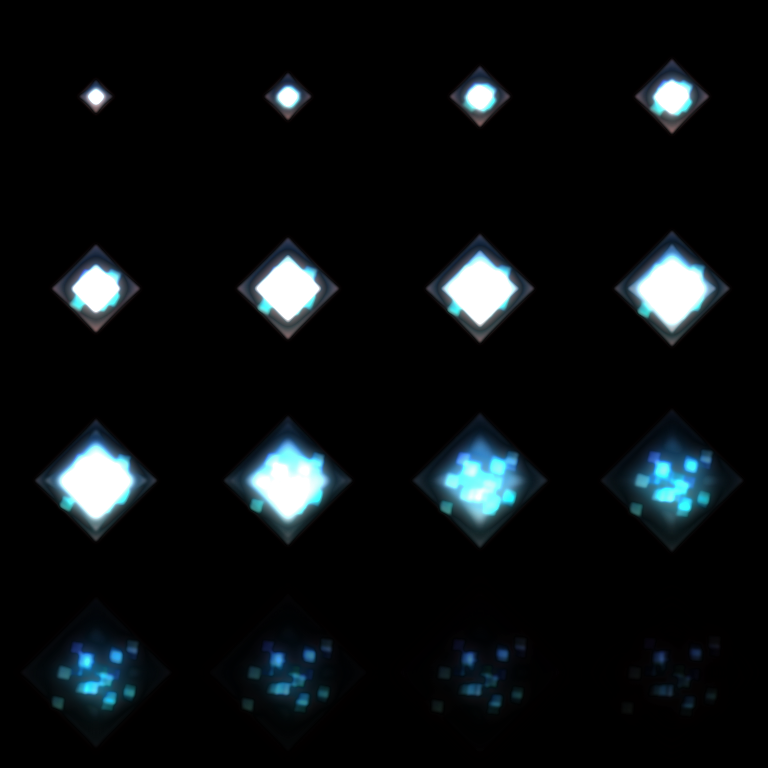
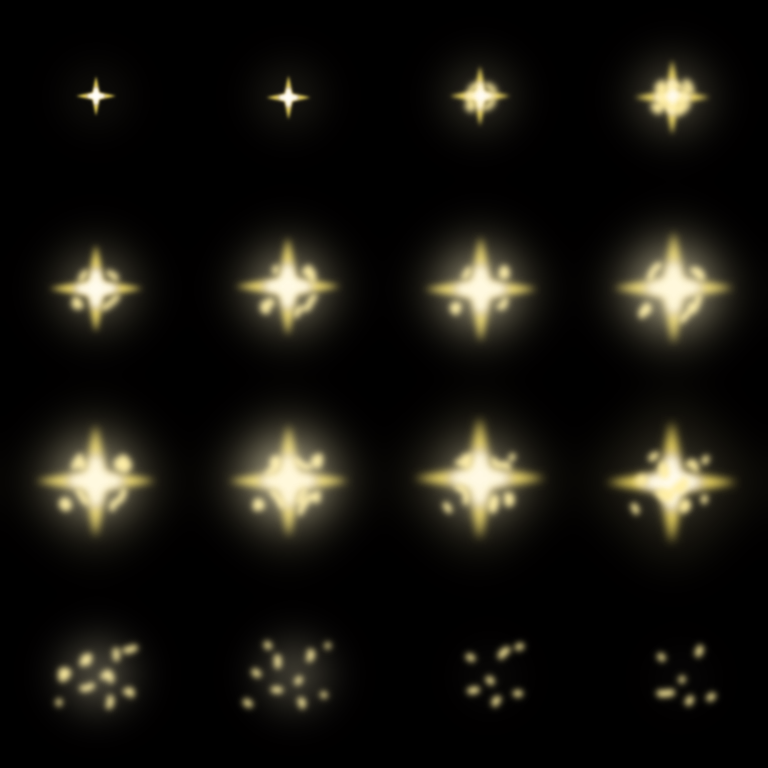
better hiteffect + artist text in song select

diff --git a/TempoTabbies/Assets/Scripts/Score/ScorePopupManager.cs b/TempoTabbies/Assets/Scripts/Score/ScorePopupManager.cs
@@ -10,6 +10,7 @@ public class ScorePopupManager : MonoBehaviour
     [Header("UI References")]
     public GameObject panelRoot;
     public TMP_Text headerText;
+    public TMP_Text artistText;
     public TMP_Text contentText;
     public TMP_Text gradetext;
     public TMP_Text cleartypetext;
@@ -42,7 +43,8 @@ public class ScorePopupManager : MonoBehaviour
         if (chartManager == null) chartManager = FindFirstObjectByType<ChartSelectManager>();
     }
 
-    public void ShowScores(string mapName, string difficulty)
+    // Accept artist as an optional parameter so callers that have the SMFile can pass Artist directly.
+    public void ShowScores(string mapName, string difficulty, string artist = null)
     {
         Debug.Log($"[ScorePopupManager] ShowScores called for {mapName} / {difficulty}");
         if (panelRoot == null)
@@ -69,7 +71,10 @@ public class ScorePopupManager : MonoBehaviour
         }
 
         if (headerText != null)
-            headerText.text = $"{mapName} - {difficulty}";
+            headerText.text = $"{mapName}";
+
+        if (artistText != null)
+            artistText.text = artist ?? string.Empty;
 
         if (entries == null || entries.Count == 0)
         {
@@ -231,7 +236,8 @@ public class ScorePopupManager : MonoBehaviour
 
     private void Update()
     {
-        if (chartManager.state == ChartSelectManager.State.bigButton)
+        if (chartManager == null) chartManager = FindFirstObjectByType<ChartSelectManager>();
+        if (chartManager != null && chartManager.state == ChartSelectManager.State.bigButton)
         {
             Debug.Log("[ScorePopupManager] Hide called");
             if (panelRoot != null) panelRoot.SetActive(false);
@@ -240,7 +246,8 @@ public class ScorePopupManager : MonoBehaviour
 
     public void Hide()
     {
-        if (chartManager.state == ChartSelectManager.State.bigButton)
+        if (chartManager == null) chartManager = FindFirstObjectByType<ChartSelectManager>();
+        if (chartManager != null && chartManager.state == ChartSelectManager.State.bigButton)
         {
             Debug.Log("[ScorePopupManager] Hide called");
             if (panelRoot != null) panelRoot.SetActive(false);

diff --git a/TempoTabbies/Assets/Scripts/Chart/ChartSelect/ChartButtonHover.cs b/TempoTabbies/Assets/Scripts/Chart/ChartSelect/ChartButtonHover.cs
@@ -46,7 +46,8 @@ public class ChartButtonHover : MonoBehaviour, IPointerEnterHandler, IPointerExi
             }
         }
 
-        mgr.ShowScores(m, d);
+        // Pass song.Artist when available so ScorePopupManager can show artist text
+        mgr.ShowScores(m, d, song != null ? song.Artist : null);
     }
 
     public void OnPointerExit(PointerEventData eventData)
@@ -84,7 +85,8 @@ public class ChartButtonHover : MonoBehaviour, IPointerEnterHandler, IPointerExi
             return;
         }
 
-        mgr.ShowScores(m, d);
+        // Pass song.Artist when available so ScorePopupManager can show artist text
+        mgr.ShowScores(m, d, song != null ? song.Artist : null);
     }
 
     public void HoverExit()
